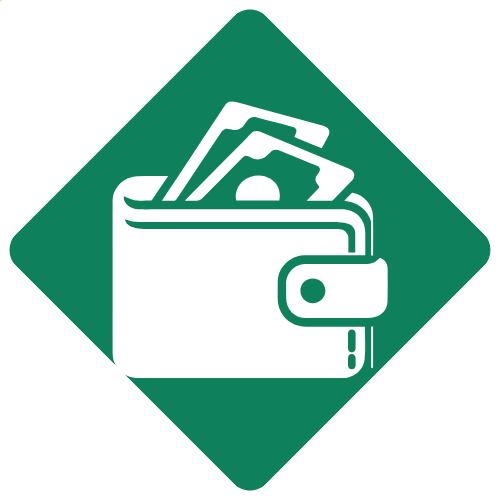
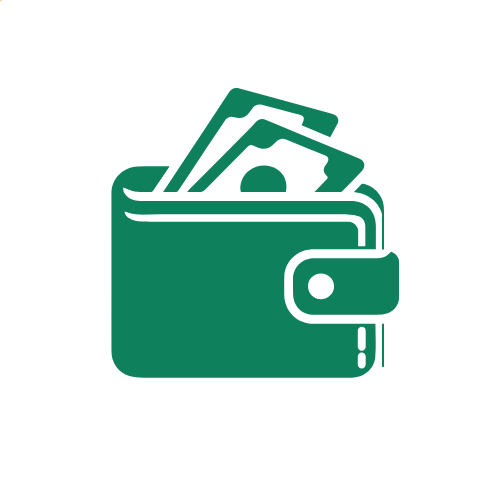
feat: allow users to choose their currency and centralize formatting

diff --git a/src/screens/Settings.jsx b/src/screens/Settings.jsx
@@ -6,12 +6,20 @@ import { TrendingUp, Trash2, LogOut, ChevronRight, Calculator, Bell, Shield, Plu
 import { motion, AnimatePresence } from 'framer-motion';
 
 const Settings = () => {
-  const { salary, setSalary, setOnboarded, startNewPeriod } = useFinance();
+  const { salary, setSalary, setOnboarded, startNewPeriod, currency, setCurrency, formatCurrency } = useFinance();
   const { user, signOut, updateProfile } = useAuth();
   const [showSim, setShowSim] = useState(false);
   const [targetSalary, setTargetSalary] = useState('');
   const [uploading, setUploading] = useState(false);
   const fileInputRef = useRef(null);
+
+  const currencies = [
+    { code: 'XOF', locale: 'fr-FR', name: 'Franc CFA (BCEAO)' },
+    { code: 'EUR', locale: 'fr-FR', name: 'Euro (€)' },
+    { code: 'USD', locale: 'en-US', name: 'Dollar ($)' },
+    { code: 'MAD', locale: 'ar-MA', name: 'Dirham (MAD)' },
+    { code: 'GNF', locale: 'fr-GN', name: 'Franc Guinéen' },
+  ];
 
   const handleReset = () => {
     if (window.confirm('Voulez-vous vraiment réinitialiser toutes vos données locales ?')) {
@@ -41,10 +49,6 @@ const Settings = () => {
     } finally {
       setUploading(false);
     }
-  };
-
-  const formatCurrency = (amount) => {
-    return new Intl.NumberFormat('fr-FR').format(amount) + ' F';
   };
 
   const diff = targetSalary ? parseFloat(targetSalary) - salary : 0;
@@ -142,7 +146,32 @@ const Settings = () => {
       </div>
 
       <div style={{ marginTop: '24px' }}>
-        <h3 style={{ fontSize: '16px', color: 'var(--text-light)', marginBottom: '12px', marginLeft: '4px' }}>PARAMÈTRES</h3>
+        <h3 style={{ fontSize: '16px', color: 'var(--text-light)', marginBottom: '12px', marginLeft: '4px' }}>MONNAIE</h3>
+        <div className="card" style={{ padding: '20px' }}>
+          <select 
+            value={currency.code}
+            onChange={(e) => {
+              const selected = currencies.find(c => c.code === e.target.value);
+              setCurrency(selected);
+            }}
+            style={{ 
+              width: '100%', 
+              padding: '12px', 
+              borderRadius: '12px', 
+              border: '1.5px solid #F3F4F6',
+              fontSize: '15px',
+              background: 'var(--bg-main)',
+              color: 'var(--text-main)',
+              fontWeight: '500'
+            }}
+          >
+            {currencies.map(c => (
+              <option key={c.code} value={c.code}>{c.name}</option>
+            ))}
+          </select>
+        </div>
+
+        <h3 style={{ fontSize: '16px', color: 'var(--text-light)', marginBottom: '12px', marginTop: '24px', marginLeft: '4px' }}>PARAMÈTRES</h3>
         
         <div className="card" style={{ padding: '0' }}>
           {[
@@ -218,7 +247,7 @@ const Settings = () => {
               </div>
 
               <div style={{ marginBottom: '24px' }}>
-                <label className="label">Nouveau salaire espéré (F CFA)</label>
+                <label className="label">Nouveau salaire espéré ({currency.code})</label>
                 <input 
                   type="number" 
                   placeholder="Ex: 200 000" 

diff --git a/src/screens/Onboarding.jsx b/src/screens/Onboarding.jsx
@@ -4,9 +4,17 @@ import { Wallet, ArrowRight, ShieldCheck } from 'lucide-react';
 import { motion } from 'framer-motion';
 
 const Onboarding = () => {
-  const { setSalary, setOnboarded } = useFinance();
+  const { setSalary, setOnboarded, currency, setCurrency } = useFinance();
   const [step, setStep] = useState(1);
   const [inputValue, setInputValue] = useState('');
+
+  const currencies = [
+    { code: 'XOF', locale: 'fr-FR', name: 'Franc CFA (BCEAO)' },
+    { code: 'EUR', locale: 'fr-FR', name: 'Euro (€)' },
+    { code: 'USD', locale: 'en-US', name: 'Dollar ($)' },
+    { code: 'MAD', locale: 'ar-MA', name: 'Dirham (MAD)' },
+    { code: 'GNF', locale: 'fr-GN', name: 'Franc Guinéen' },
+  ];
 
   const handleStart = () => {
     if (inputValue && parseFloat(inputValue) > 0) {
@@ -69,8 +77,32 @@ const Onboarding = () => {
             Renseignez votre revenu fixe net pour que nous puissions organiser votre budget.
           </p>
 
+          <div style={{ marginBottom: '24px' }}>
+            <label className="label">Votre monnaie</label>
+            <select 
+              value={currency.code}
+              onChange={(e) => {
+                const selected = currencies.find(c => c.code === e.target.value);
+                setCurrency(selected);
+              }}
+              style={{ 
+                width: '100%', 
+                padding: '14px', 
+                borderRadius: '12px', 
+                border: '1.5px solid #E5E7EB',
+                fontSize: '16px',
+                background: 'white',
+                marginBottom: '20px'
+              }}
+            >
+              {currencies.map(c => (
+                <option key={c.code} value={c.code}>{c.name}</option>
+              ))}
+            </select>
+          </div>
+
           <div style={{ marginBottom: '40px' }}>
-            <label className="label">Salaire mensuel (F CFA)</label>
+            <label className="label">Salaire mensuel ({currency.code})</label>
             <div style={{ position: 'relative' }}>
               <input 
                 type="number" 
@@ -80,7 +112,7 @@ const Onboarding = () => {
                 style={{ fontSize: '24px', fontWeight: 'bold', padding: '20px', paddingRight: '80px' }}
               />
               <span style={{ position: 'absolute', right: '20px', top: '50%', transform: 'translateY(-50%)', fontWeight: 'bold', color: 'var(--navy)' }}>
-                F CFA
+                {currency.code}
               </span>
             </div>
           </div>

diff --git a/src/context/FinanceContext.jsx b/src/context/FinanceContext.jsx
@@ -18,6 +18,7 @@ export const FinanceProvider = ({ children }) => {
     { id: 'emergency', name: 'Imprévus', icon: 'AlertCircle', color: '--accent-pink', limit: 0.05 },
     { id: 'personal', name: 'Dépenses personnelles', icon: 'User', color: '--accent-blue', limit: 0.1 },
   ]);
+  const [currency, setCurrency] = useState({ locale: 'fr-FR', code: 'XOF' });
 
   const [onboarded, setOnboarded] = useState(false);
 
@@ -36,6 +37,7 @@ export const FinanceProvider = ({ children }) => {
       setExpenses(data.expenses || []);
       setDebts(data.debts || []);
       setCategories(data.categories || categories);
+      setCurrency(data.currency || { locale: 'fr-FR', code: 'XOF' });
       setOnboarded(data.onboarded || false);
       if (data.periodStart) {
         setPeriodStart(data.periodStart);
@@ -46,9 +48,9 @@ export const FinanceProvider = ({ children }) => {
   // Save to localStorage
   useEffect(() => {
     localStorage.setItem('dudukan_data', JSON.stringify({
-      salary, extraIncome, expenses, debts, categories, onboarded, periodStart
+      salary, extraIncome, expenses, debts, categories, onboarded, periodStart, currency
     }));
-  }, [salary, extraIncome, expenses, debts, categories, onboarded, periodStart]);
+  }, [salary, extraIncome, expenses, debts, categories, onboarded, periodStart, currency]);
 
   const addExpense = (expense) => {
     setExpenses([...expenses, { ...expense, id: Date.now(), date: new Date().toISOString() }]);
@@ -110,6 +112,15 @@ export const FinanceProvider = ({ children }) => {
   const daysRemaining = daysInMonth - currentDay + 1;
   const resteAVivre = balance > 0 ? Math.round(balance / daysRemaining) : 0;
 
+  const formatCurrency = (amount) => {
+    return new Intl.NumberFormat(currency.locale, {
+      style: 'currency',
+      currency: currency.code,
+      minimumFractionDigits: 0,
+      maximumFractionDigits: 0
+    }).format(amount);
+  };
+
   return (
     <FinanceContext.Provider value={{
       salary, setSalary,
@@ -123,7 +134,8 @@ export const FinanceProvider = ({ children }) => {
       totalIncome, totalExpenses, balance,
       getCategorySpent, getCategoryBudget,
       daysRemaining, resteAVivre,
-      startNewPeriod
+      startNewPeriod,
+      currency, setCurrency, formatCurrency
     }}>
       {children}
     </FinanceContext.Provider>

diff --git a/src/screens/Debts.jsx b/src/screens/Debts.jsx
@@ -4,7 +4,7 @@ import { CreditCard, Plus, User, Calendar, CheckCircle2 } from 'lucide-react';
 import { motion } from 'framer-motion';
 
 const Debts = () => {
-  const { debts, addDebt, updateDebt } = useFinance();
+  const { debts, addDebt, updateDebt, currency, formatCurrency } = useFinance();
   const [showAdd, setShowAdd] = useState(false);
   const [newDebt, setNewDebt] = useState({ lender: '', amount: '', dueDate: '' });
 
@@ -15,10 +15,6 @@ const Debts = () => {
       setNewDebt({ lender: '', amount: '', dueDate: '' });
       setShowAdd(false);
     }
-  };
-
-  const formatCurrency = (amount) => {
-    return new Intl.NumberFormat('fr-FR').format(amount) + ' F';
   };
 
   const totalDebt = debts.reduce((acc, curr) => acc + curr.remaining, 0);
@@ -62,7 +58,7 @@ const Debts = () => {
               />
             </div>
             <div style={{ marginBottom: '12px' }}>
-              <label className="label">Montant (F CFA)</label>
+              <label className="label">Montant ({currency.code})</label>
               <input 
                 type="number" 
                 placeholder="0" 

diff --git a/vite.config.js b/vite.config.js
@@ -7,7 +7,7 @@ export default defineConfig({
     react(),
     VitePWA({
       registerType: 'autoUpdate',
-      includeAssets: ['favicon.svg', 'sampa-electro.png'],
+      includeAssets: ['favicon.svg', 'sampa-electro.png', 'sampa-electro-maskable.png'],
       manifest: {
         name: 'Dudukan',
         short_name: 'Dudukan',
@@ -17,15 +17,22 @@ export default defineConfig({
         display: 'standalone',
         icons: [
           {
-            src: 'sampa-electro.png',
+            src: 'sampa-electro.png?v=3',
             sizes: '192x192',
-            type: 'image/png'
+            type: 'image/png',
+            purpose: 'any'
           },
           {
-            src: 'sampa-electro.png',
+            src: 'sampa-electro.png?v=3',
             sizes: '512x512',
             type: 'image/png',
-            purpose: 'any maskable'
+            purpose: 'any'
+          },
+          {
+            src: 'sampa-electro-maskable.png?v=3',
+            sizes: '512x512',
+            type: 'image/png',
+            purpose: 'maskable'
           }
         ]
       }

diff --git a/src/screens/Budget.jsx b/src/screens/Budget.jsx
@@ -4,7 +4,7 @@ import { PieChart, Plus, Info, Utensils, Car, Home, CreditCard, PiggyBank, Alert
 import { motion, AnimatePresence } from 'framer-motion';
 
 const Budget = () => {
-  const { salary, categories, setCategories, getCategorySpent, getCategoryBudget } = useFinance();
+  const { salary, categories, setCategories, getCategorySpent, getCategoryBudget, formatCurrency } = useFinance();
   const [showModal, setShowModal] = useState(false);
   
   // Form state
@@ -12,10 +12,6 @@ const Budget = () => {
   const [newLimit, setNewLimit] = useState('');
   const [newIcon, setNewIcon] = useState('Utensils');
   const [newColor, setNewColor] = useState('--accent-blue');
-
-  const formatCurrency = (amount) => {
-    return new Intl.NumberFormat('fr-FR').format(amount) + ' F';
-  };
 
   const handleDeleteCategory = (id) => {
     if (window.confirm('Voulez-vous vraiment supprimer cette catégorie ?')) {

diff --git a/src/screens/Expenses.jsx b/src/screens/Expenses.jsx
@@ -4,7 +4,7 @@ import { PlusCircle, MinusCircle, Check, X } from 'lucide-react';
 import { motion, AnimatePresence } from 'framer-motion';
 
 const Expenses = () => {
-  const { categories, addExpense, addIncome } = useFinance();
+  const { categories, addExpense, addIncome, currency } = useFinance();
   const [type, setType] = useState('expense'); // 'expense' or 'income'
   const [amount, setAmount] = useState('');
   const [categoryId, setCategoryId] = useState('food');
@@ -82,7 +82,7 @@ const Expenses = () => {
       <div className="card">
         <form onSubmit={handleSubmit}>
           <div style={{ marginBottom: '20px' }}>
-            <label className="label">Montant (F CFA)</label>
+            <label className="label">Montant ({currency.code})</label>
             <input 
               type="number" 
               placeholder="0" 

diff --git a/src/screens/Dashboard.jsx b/src/screens/Dashboard.jsx
@@ -5,14 +5,9 @@ import { TrendingUp, TrendingDown, Calendar, AlertCircle, ArrowUpRight } from 'l
 import { motion } from 'framer-motion';
 
 const Dashboard = ({ setActiveTab }) => {
-  const { salary, balance, totalExpenses, resteAVivre, daysRemaining, expenses } = useFinance();
+  const { salary, balance, totalExpenses, resteAVivre, daysRemaining, expenses, formatCurrency } = useFinance();
   const { user } = useAuth();
-  
   const firstName = user?.user_metadata?.full_name?.split(' ')[0] || '';
-
-  const formatCurrency = (amount) => {
-    return new Intl.NumberFormat('fr-FR').format(amount) + ' F';
-  };
 
   const recentTransactions = expenses.slice(-3).reverse();
 
